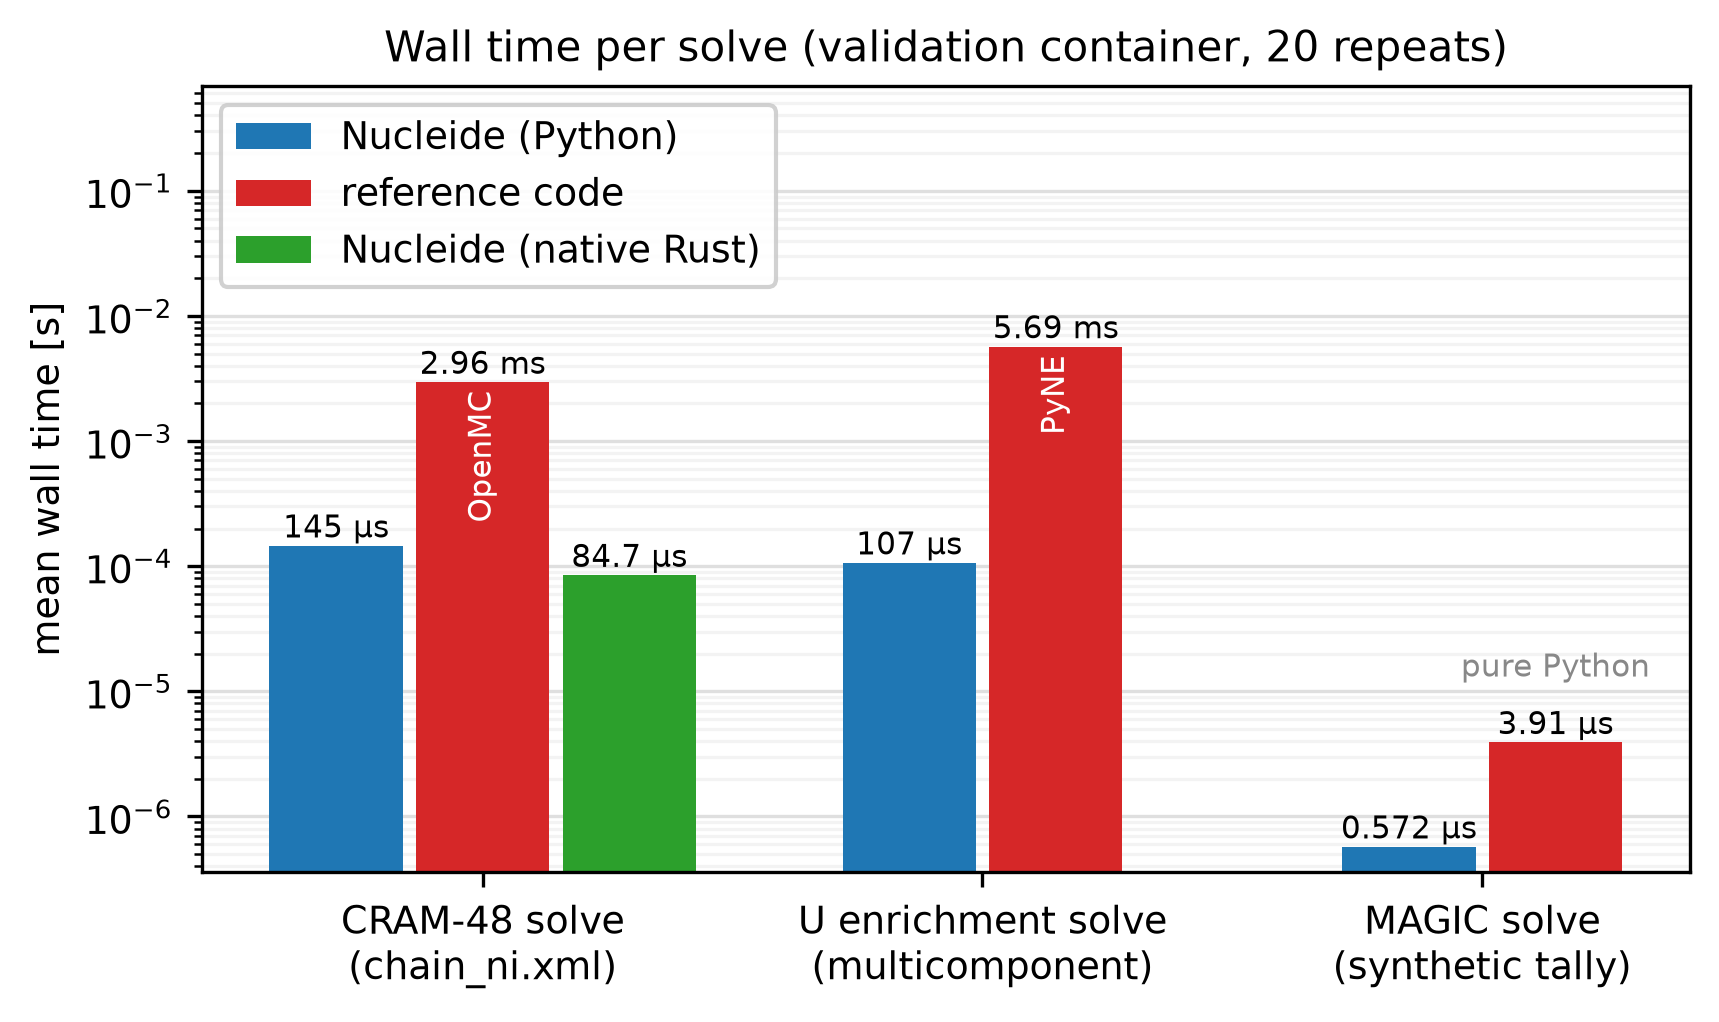
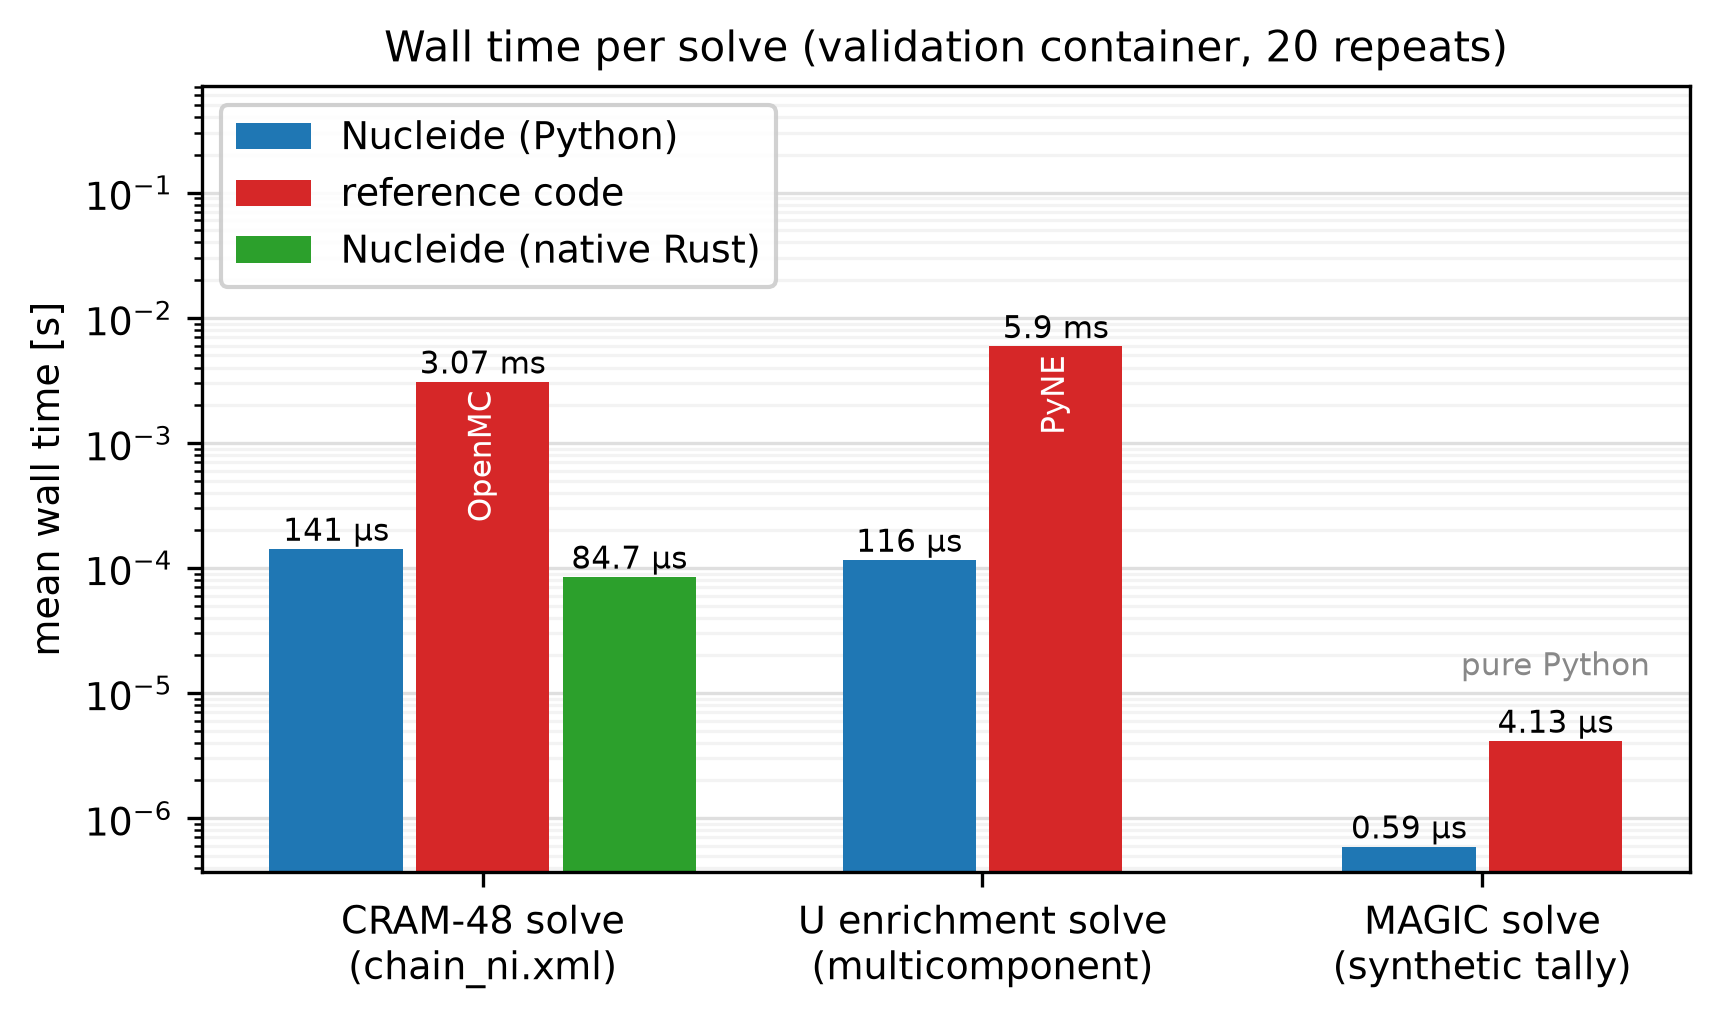
Regenerate validation results for 0.10.0
Add fission-yield tape spot checks to the nuclear-data section and
quote them in paper.md. Refresh timing figures. Note the skipped
OpenMC yield cross-check because the nfy tapes are absent from the
container cache.

diff --git a/validation/results.md b/validation/results.md
@@ -6,7 +6,7 @@ These numbers were generated by the runnable scripts in this directory on
 
 | Code     | Version | Source                                        |
 |----------|---------|-----------------------------------------------|
-| Nucleide | 0.9.0   | abi3 release wheel (maturin container)        |
+| Nucleide | 0.10.0  | abi3 release wheel (maturin container)        |
 | PyNE     | 0.7.5   | conda-forge `nomoab_noopenmc` build           |
 | OpenMC   | 0.16.0  | built from the upstream `v0.16.0` release tag |
 | Python   | 3.12    | miniforge3 base                               |
@@ -495,6 +495,34 @@ branch table. SF branches are dropped at generation, so they never appear here.
 | He8      | half-life        | 1.191000e-01 | 1.191000e-01 | 0.000000e+00 |
 | He8      | Li8 [beta-]      | 8.400000e-01 | 8.400000e-01 | 0.000000e+00 |
 | He8      | Li7 [beta-]      | 1.600000e-01 | 1.600000e-01 | 0.000000e+00 |
+
+### Fission yields vs ENDF/B-VIII.0 tape spot values
+
+Nucleide `fission_yields` (independent MF8/MT454 and cumulative MF8/MT459 sets) vs values read off
+the ENDF/B-VIII.0 neutron-induced/spontaneous fission-yield tapes they were generated from. Both
+sublibraries are unchanged carries of ENDF/B-VII.1 evaluations per their README.txt (England et al.
+ENDF-349, except the Chadwick-Kawano Pu-239 evaluation), and the Mattera-Sonzogni cumulative-yield
+correction is not applied. Independent sets sum to ~2.0 (two fragments per fission); U-238's lowest
+neutron-induced set is 500 keV, and Cf-252's spontaneous set is E = 0.
+
+| Set -> daughter                        | Nucleide     | Spot         | Rel diff     |
+|----------------------------------------|--------------|--------------|--------------|
+| U235[n/independent]@0.0253 -> Xe135    | 7.851250e-04 | 7.851250e-04 | 0.000000e+00 |
+| U235[n/independent]@0.0253 -> Xe135_m1 | 1.781220e-03 | 1.781220e-03 | 0.000000e+00 |
+| U235[n/independent]@0.0253 -> Kr85     | 2.553320e-04 | 2.553320e-04 | 0.000000e+00 |
+| U235[n/cumulative]@0.0253 -> Xe135     | 6.538500e-02 | 6.538500e-02 | 0.000000e+00 |
+| U235[n/cumulative]@0.0253 -> Cs137     | 6.188320e-02 | 6.188320e-02 | 0.000000e+00 |
+| Pu239[n/independent]@0.0253 -> Xe135   | 3.141310e-03 | 3.141310e-03 | 0.000000e+00 |
+| U238[n/independent]@500000 -> Xe135    | 1.115410e-04 | 1.115410e-04 | 0.000000e+00 |
+| Cf252[sf/independent]@0 -> Xe135       | 1.861450e-03 | 1.861450e-03 | 0.000000e+00 |
+| U235[n]@0.0253 independent sum         | 2.000000e+00 | 2.0          | 1.161862e-07 |
+| Pu239[n]@0.0253 independent sum        | 2.000000e+00 | 2.0          | 6.474940e-08 |
+| U238[n]@500000 independent sum         | 2.000000e+00 | 2.0          | 1.809704e-08 |
+| Cf252[sf]@0 independent sum            | 2.000000e+00 | 2.0          | 2.739402e-08 |
+
+SKIPPED fission_yields: OpenMC fission-yield cross-check skipped: ENDF/B-VIII.0 nfy tapes are not
+present under validation/.cache (the container cache holds only the CASL chain); the tape spot gates
+above still pin the committed table.
 
 ## 9. Dose coefficients (`dose_vs_pyne.py`)
 
@@ -1008,9 +1036,9 @@ step** on pre-built systems/matrices.
 
 | Operation                                             | Nucleide       | Reference code                              |
 |-------------------------------------------------------|----------------|---------------------------------------------|
-| CRAM-48 solve (`chain_ni.xml`)                        | 1.454791e-04 s | OpenMC CRAM48: 2.956863e-03 s               |
-| Default uranium enrichment solve                      | 1.065174e-04 s | PyNE multicomponent: 5.692155e-03 s         |
-| MAGIC total-mode solve (synthetic tally)              | 5.721501e-07 s | PyNE-equivalent pure Python: 3.906300e-06 s |
+| CRAM-48 solve (`chain_ni.xml`)                        | 1.414652e-04 s | OpenMC CRAM48: 3.074373e-03 s               |
+| Default uranium enrichment solve                      | 1.155028e-04 s | PyNE multicomponent: 5.898991e-03 s         |
+| MAGIC total-mode solve (synthetic tally)              | 5.897499e-07 s | PyNE-equivalent pure Python: 4.127150e-06 s |
 | Native Rust CRAM-48 solve (Criterion, no Python)      | 8.465243e-05 s | —                                           |
 | Native Rust deplete end-to-end (Criterion, no Python) | 8.640163e-05 s | —                                           |
 

diff --git a/paper.md b/paper.md
@@ -28,7 +28,8 @@ Nucleide is a toolkit for the nuclear-engineering workflow *around* particle
 transport codes: reading and writing legacy code files (MCNP, Serpent, FLUKA),
 canonical nuclide identification across a dozen naming dialects, embedded
 nuclear reference data (AME2020 masses, IUPAC 2013 abundances, ENDF/B-VIII.0
-half-lives, plus ENDF/B and NIST-derived screening cross sections, neutron
+half-lives, decay branches, and fission yields, plus ENDF/B and
+NIST-derived screening cross sections, neutron
 scattering lengths, and prompt decay energies), material construction,
 multi-step burnup-matrix depletion with the
 Chebyshev Rational Approximation Method (CRAM) [@pusa2010cram; @pusa2016cram]
@@ -158,6 +159,12 @@ The repository contains a runnable cross-code validation harness
   carries per-isomer excitation masses alongside the AME2020 grounds); all name-dialect conversions match `pyne.nucname`
   exactly. Screening scattering lengths follow Sears [@sears1992], and prompt
   decay energies plus 14-MeV totals follow ENDF/B-VII.1 [@chadwick2011endf71].
+  Fission yields (independent and cumulative sets for the 36 neutron-induced
+  and spontaneous parents, carried from the ENDF/B-VII.1 evaluations) match
+  the ENDF/B-VIII.0 tape values exactly at the probe rows, with per-energy
+  independent-yield sums within $1.2\times10^{-7}$ of 2
+  [@brown2018endf; @chadwick2011endf71]; the same library backs the depletion
+  chain fallback when a chain omits yields for a fissionable parent.
 - **Performance**: single-step CRAM-48 solves run in $\sim$134 µs from Python
   ($\sim$85 µs native) versus $\sim$3.0 ms for OpenMC's Python path; the
   default uranium enrichment solve runs in $\sim$110 µs versus $\sim$5.8 ms
